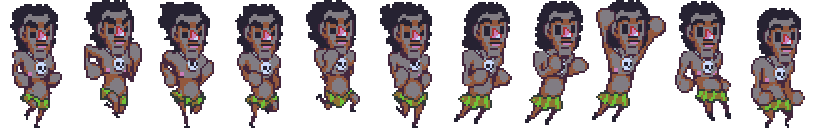
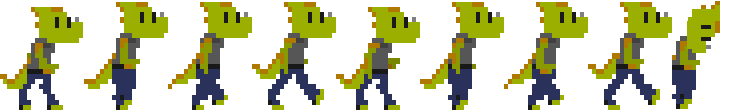
Replace main character with a dinosaurs (people love them!)

diff --git a/platformer/LoadState.js b/platformer/LoadState.js
@@ -20,7 +20,7 @@ var LoadState = function() {
 		this.game.load.image('pixel', 'assets/pixel.png'); // By Fernando Bevilacqua, public domain
 
 		// Assets from external authors
-		this.game.load.spritesheet('player', 'assets/player.png', 74, 128); // Contributors, CC-BY 3.0, http://opengameart.org/content/open-pixel-platformer-tiles-sprites
+		this.game.load.spritesheet('player', 'assets/player.png?1', 84, 110); // Jan124, OGA-BY 3.0, http://opengameart.org/content/pixel-dinosaurs
 		this.game.load.image('platform', 'assets/platform.png?1'); // Contributors, CC-BY 3.0, http://opengameart.org/content/open-pixel-platformer-tiles-sprites
 		this.game.load.image('slope-up', 'assets/slope-up.png'); // Contributors, CC-BY 3.0, http://opengameart.org/content/open-pixel-platformer-tiles-sprites
 		this.game.load.image('slope-down', 'assets/slope-down.png'); // Contributors, CC-BY 3.0, http://opengameart.org/content/open-pixel-platformer-tiles-sprites
@@ -29,7 +29,7 @@ var LoadState = function() {
 		this.game.load.spritesheet('dust', 'assets/dust.png', 64, 40); // ansimuz, Public domain, http://opengameart.org/content/animated-explosions
 		this.game.load.image('water', 'assets/water.png');  // Contributors, CC-BY 3.0, http://opengameart.org/content/open-pixel-platformer-tiles-sprites
 		this.game.load.spritesheet('clouds', 'assets/clouds.png', 192, 60);  // Contributors, CC-BY 3.0, http://opengameart.org/content/open-pixel-platformer-tiles-sprites
-		this.game.load.image('tutorial', 'assets/tutorial.png?1'); // xelu, Public Domain, http://opengameart.org/content/free-keyboard-and-controllers-prompts-pack
+		this.game.load.image('tutorial', 'assets/tutorial.png?2'); // xelu, Public Domain, http://opengameart.org/content/free-keyboard-and-controllers-prompts-pack
 		this.game.load.image('key-up', 'assets/key-up.png'); // xelu, Public Domain, http://opengameart.org/content/free-keyboard-and-controllers-prompts-pack
 		this.game.load.image('key-s', 'assets/key-s.png'); // xelu, Public Domain, http://opengameart.org/content/free-keyboard-and-controllers-prompts-pack
 		this.game.load.image('heart', 'assets/heart.png'); // UI pack, by Kenney Vleugels (www.kenney.nl), CC0, http://www.kenney.nl

diff --git a/platformer/Player.js b/platformer/Player.js
@@ -29,9 +29,9 @@ Player.prototype.constructor = Player;
 // Public methods
 
 Player.prototype.init = function() {
-    this.animations.add('run', [0, 1, 2, 3, 4, 5], 10, true);
-    this.animations.add('jump', [6, 7, 8, 8, 9, 10], 5, true);
-    this.animations.add('dash', [11], 5, true);
+    this.animations.add('run', [0, 1, 2, 3, 4, 5, 6, 7], 12, true);
+    this.animations.add('jump', [6], 5, true);
+    this.animations.add('dash', [8], 5, true);
 
     this.game.physics.enable(this, Phaser.Physics.ARCADE);
     this.body.collideWorldBounds = true;
@@ -131,23 +131,23 @@ Player.prototype.processMoveOnSlope = function(theSlope) {
     if(theSlope.key == 'slope-up') {
         if(aScale <= 0.5) {
             this.run();
-            this.y = theSlope.y - (theSlope.height / 2 + aScale * theSlope.height * 0.7);
+            this.y = theSlope.y - (theSlope.height / 2 + aScale * theSlope.height * 0.6);
         } else {
             this.y = theSlope.y - this.body.height;
         }
     } else {
         if(aScale <= 0.6) {
             this.run();
-            this.y = theSlope.y - theSlope.height / 2 - 40 + aScale * (theSlope.height / 2);
+            this.y = theSlope.y - theSlope.height / 2 - 10 + aScale * (theSlope.height / 2);
         } else {
-            this.y = theSlope.y - 60;
+            this.y = theSlope.y - 40;
         }
     }
 };
 
 Player.prototype.run = function() {
     if(this.animations.currentAnim.name != "run") {
-        this.body.setSize(20, 120, 30, 0);
+        this.body.setSize(20, 105, 30, 0);
         this.anchor.set(0);
         this.angle = 0;
         this.animations.play('run');
